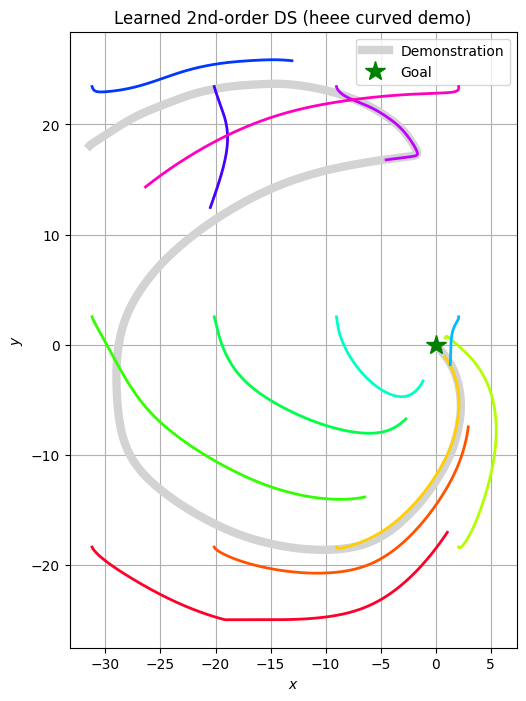
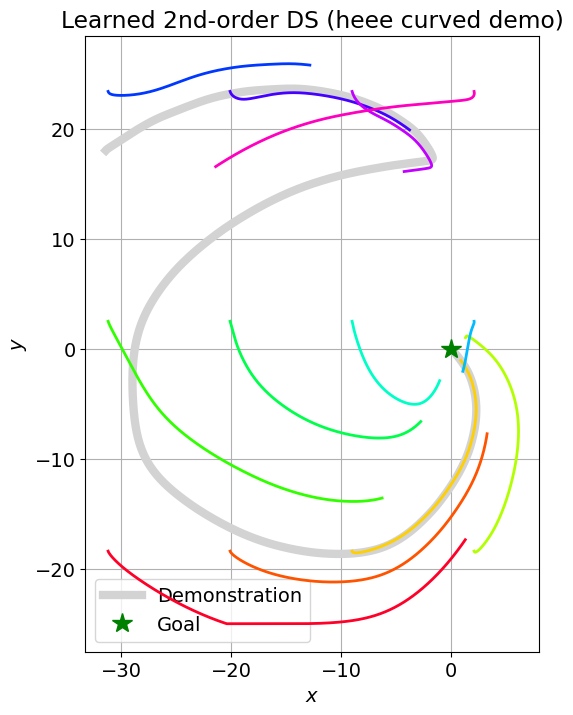
Update help text for --n-simulate argument and enhance simulation callback functionality
Revised the help description for the `--n-simulate` argument across multiple scripts to clarify its default behavior and usage. Introduced a new function to resolve the simulation interval based on user input, ensuring better handling of simulation settings during training. Updated the training callback to improve simulation output and error handling.

diff --git a/myscripts/ladder3_common.py b/myscripts/ladder3_common.py
@@ -94,6 +94,21 @@ def read_last_training_iteration(results_path: str) -> int | None:
     return last
 
 
+def resolve_n_simulate(n_simulate: int | None, params) -> int | None:
+    """
+    Interval for ladder grid plots during training.
+
+    * ``None`` -> ``params.evaluation_interval`` (same cadence as ``primitive_*_iter_*.pdf``)
+    * ``0`` -> disabled
+    * ``N > 0`` -> every N iterations
+    """
+    if n_simulate is None:
+        return int(params.evaluation_interval)
+    if n_simulate <= 0:
+        return None
+    return n_simulate
+
+
 def _periodic_simulate_plot_path(results_path: str, iteration: int) -> str:
     images_dir = os.path.join(results_path, "images")
     os.makedirs(images_dir, exist_ok=True)
@@ -108,15 +123,25 @@ def make_periodic_simulate_callback(
     """Build a training callback that runs ladder grid sim + static PNG."""
 
     def callback(iteration: int, learner, _evaluator, data: dict) -> None:
-        demo_xy = demonstration_xy_from_data(data)
-        goal = np.asarray(data["goals"][0], dtype=float).reshape(-1)
-        visited = simulate_learned_ds(learner, data, order, n_steps=n_steps)
         out_path = _periodic_simulate_plot_path(results_path, iteration)
-        title = f"{PLOT_TITLE_BY_ORDER[order]} (iter {iteration})"
-        fig = plot_learned_ds_static(visited, demo_xy, goal, title)
-        fig.savefig(out_path, bbox_inches="tight")
-        plt.close(fig)
-        print(f"Saved ladder simulation plot to {out_path}")
+        print(f"Ladder grid simulation at iteration {iteration} -> {out_path}")
+        was_training = learner.model.training
+        learner.model.eval()
+        try:
+            demo_xy = demonstration_xy_from_data(data)
+            goal = np.asarray(data["goals"][0], dtype=float).reshape(-1)
+            with torch.no_grad():
+                visited = simulate_learned_ds(learner, data, order, n_steps=n_steps)
+            title = f"{PLOT_TITLE_BY_ORDER[order]} (iter {iteration})"
+            fig = plot_learned_ds_static(visited, demo_xy, goal, title)
+            fig.savefig(out_path, bbox_inches="tight", dpi=120)
+            plt.close(fig)
+            print(f"Saved ladder simulation plot to {out_path}")
+        except Exception:
+            plt.close("all")
+            raise
+        finally:
+            learner.model.train(was_training)
 
     return callback
 
@@ -144,8 +169,11 @@ def _run_training_with_optional_simulate(
     n_steps: int = 2000,
     verbose: bool = True,
 ) -> tuple[object, object, dict, float]:
+    interval = resolve_n_simulate(n_simulate, params)
     step_callback = None
-    if n_simulate is not None and n_simulate > 0:
+    if interval is not None:
+        if verbose:
+            print(f"Ladder grid plots every {interval} training iterations.")
         step_callback = make_periodic_simulate_callback(order, params.results_path, n_steps)
     return run_training(
         params,
@@ -153,7 +181,7 @@ def _run_training_with_optional_simulate(
         tensorboard_log_dir=tensorboard_log_dir(params_name, params.selected_primitives_ids),
         start_iteration=start_iteration,
         step_callback=step_callback,
-        step_callback_interval=n_simulate,
+        step_callback_interval=interval,
         verbose=verbose,
     )
 

diff --git a/myscripts/ladder2_common.py b/myscripts/ladder2_common.py
@@ -93,6 +93,15 @@ def read_last_training_iteration(results_path: str) -> int | None:
     return last
 
 
+def resolve_n_simulate(n_simulate: int | None, params) -> int | None:
+    """See ``ladder3_common.resolve_n_simulate``."""
+    if n_simulate is None:
+        return int(params.evaluation_interval)
+    if n_simulate <= 0:
+        return None
+    return n_simulate
+
+
 def _periodic_simulate_plot_path(results_path: str, iteration: int) -> str:
     images_dir = os.path.join(results_path, "images")
     os.makedirs(images_dir, exist_ok=True)
@@ -107,15 +116,25 @@ def make_periodic_simulate_callback(
     """Build a training callback that runs ladder grid sim + static PNG."""
 
     def callback(iteration: int, learner, _evaluator, data: dict) -> None:
-        demo_xy = load_demonstration_xy()
-        goal = np.asarray(data["goals"][0], dtype=float).reshape(-1)
-        visited = simulate_learned_ds(learner, data, order, n_steps=n_steps)
         out_path = _periodic_simulate_plot_path(results_path, iteration)
-        title = f"{PLOT_TITLE_BY_ORDER[order]} (iter {iteration})"
-        fig = plot_learned_ds_static(visited, demo_xy, goal, title)
-        fig.savefig(out_path, bbox_inches="tight")
-        plt.close(fig)
-        print(f"Saved ladder simulation plot to {out_path}")
+        print(f"Ladder grid simulation at iteration {iteration} -> {out_path}")
+        was_training = learner.model.training
+        learner.model.eval()
+        try:
+            demo_xy = load_demonstration_xy()
+            goal = np.asarray(data["goals"][0], dtype=float).reshape(-1)
+            with torch.no_grad():
+                visited = simulate_learned_ds(learner, data, order, n_steps=n_steps)
+            title = f"{PLOT_TITLE_BY_ORDER[order]} (iter {iteration})"
+            fig = plot_learned_ds_static(visited, demo_xy, goal, title)
+            fig.savefig(out_path, bbox_inches="tight", dpi=120)
+            plt.close(fig)
+            print(f"Saved ladder simulation plot to {out_path}")
+        except Exception:
+            plt.close("all")
+            raise
+        finally:
+            learner.model.train(was_training)
 
     return callback
 
@@ -130,8 +149,11 @@ def _run_training_with_optional_simulate(
     n_steps: int = 2000,
     verbose: bool = True,
 ) -> tuple[object, object, dict, float]:
+    interval = resolve_n_simulate(n_simulate, params)
     step_callback = None
-    if n_simulate is not None and n_simulate > 0:
+    if interval is not None:
+        if verbose:
+            print(f"Ladder grid plots every {interval} training iterations.")
         step_callback = make_periodic_simulate_callback(order, params.results_path, n_steps)
     return run_training(
         params,
@@ -139,7 +161,7 @@ def _run_training_with_optional_simulate(
         tensorboard_log_dir=tensorboard_log_dir(params_name, params.selected_primitives_ids),
         start_iteration=start_iteration,
         step_callback=step_callback,
-        step_callback_interval=n_simulate,
+        step_callback_interval=interval,
         verbose=verbose,
     )
 

diff --git a/pumafabrics/puma_adapted/train.py b/pumafabrics/puma_adapted/train.py
@@ -125,7 +125,10 @@ def run_training(
             step_callback is not None
             and step_callback_interval is not None
             and step_callback_interval > 0
-            and iteration % step_callback_interval == 0
+            and (
+                iteration % step_callback_interval == 0
+                or iteration == params.max_iterations
+            )
         ):
             step_callback(iteration, learner, evaluator, data)
 

diff --git a/myscripts/ladder3a.py b/myscripts/ladder3a.py
@@ -52,7 +52,8 @@ def parse_args() -> argparse.Namespace:
         "--n-simulate",
         type=int,
         default=None,
-        help="During training, run ladder grid sim+plot every N iterations (omit to disable).",
+        help="Ladder grid PNG every N iters while training (default: evaluation_interval, 1500). "
+        "Use 0 to disable.",
     )
     parser.add_argument(
         "--no-plot",

diff --git a/myscripts/ladder3b.py b/myscripts/ladder3b.py
@@ -52,7 +52,8 @@ def parse_args() -> argparse.Namespace:
         "--n-simulate",
         type=int,
         default=None,
-        help="During training, run ladder grid sim+plot every N iterations (omit to disable).",
+        help="Ladder grid PNG every N iters while training (default: evaluation_interval, 1500). "
+        "Use 0 to disable.",
     )
     parser.add_argument(
         "--no-plot",

diff --git a/myscripts/ladder2a.py b/myscripts/ladder2a.py
@@ -52,7 +52,7 @@ def parse_args() -> argparse.Namespace:
         "--n-simulate",
         type=int,
         default=None,
-        help="During training, run ladder grid sim+plot every N iterations (omit to disable).",
+        help="Ladder grid PNG every N iters while training (default: evaluation_interval). Use 0 to disable.",
     )
     parser.add_argument(
         "--no-plot",

diff --git a/myscripts/ladder2b.py b/myscripts/ladder2b.py
@@ -52,7 +52,7 @@ def parse_args() -> argparse.Namespace:
         "--n-simulate",
         type=int,
         default=None,
-        help="During training, run ladder grid sim+plot every N iterations (omit to disable).",
+        help="Ladder grid PNG every N iters while training (default: evaluation_interval). Use 0 to disable.",
     )
     parser.add_argument(
         "--no-plot",

diff --git a/myscripts/README.md b/myscripts/README.md
@@ -55,9 +55,10 @@ python3 myscripts/ladder3_data.py
 python3 myscripts/ladder3a.py --no-plot
 python3 myscripts/ladder3b.py --no-plot
 
-# During training, also save ladder grid sim plots every N iterations
-python3 myscripts/ladder3b.py --n-simulate 3000 --train-only --no-plot
+# During training, ladder grid PNGs (default: every 1500 iters, same as evaluator PDFs)
 # -> results/ladder3_2nd_order_2D/ladder3_heee/0/images/ladder_sim_iter_*.png
+python3 myscripts/ladder3b.py --train-only --no-plot
+# Custom interval or disable: --n-simulate 3000  |  --n-simulate 0
 
 # Re-simulate an existing checkpoint
 python3 myscripts/ladder3a.py --simulate-only --no-plot
